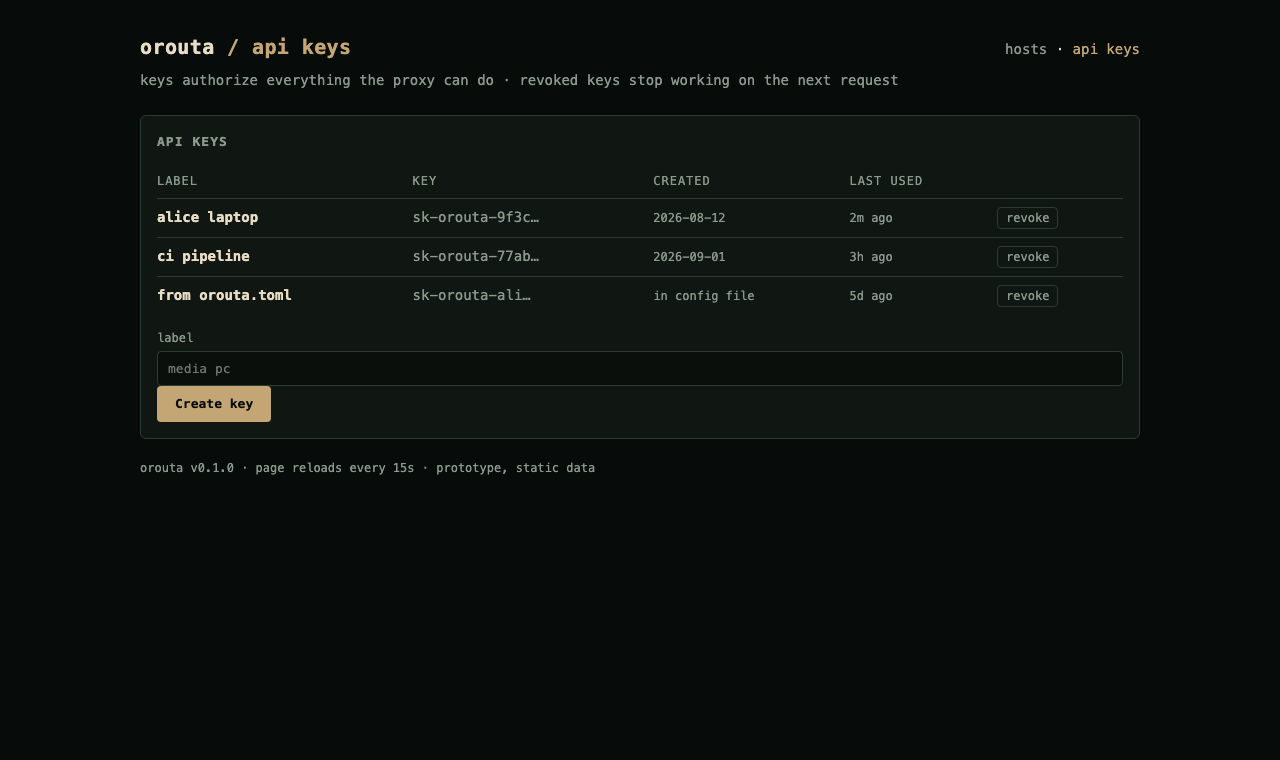
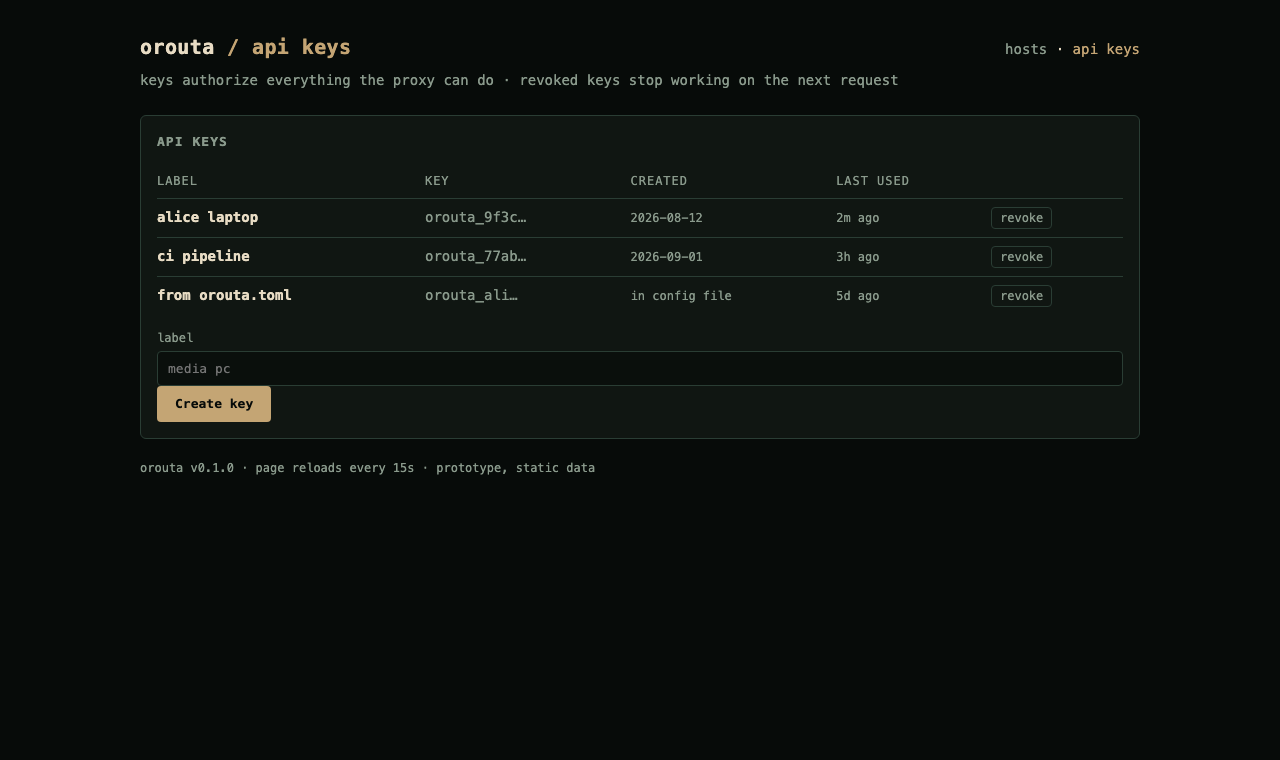
keys prefixed orouta_

diff --git a/prototypes/keys-reveal.html b/prototypes/keys-reveal.html
@@ -152,7 +152,7 @@
   <div class="reveal">
     <button class="btn">copy</button>
     <b>New key created &mdash; copy it now, it won't be shown again</b>
-    <code>sk-orouta-9f3ce1d24b7a8c05f6e39a1d0c2b48f7</code>
+    <code>orouta_9f3ce1d24b7a8c05f6e39a1d0c2b48f7</code>
   </div>
 
     <table>
@@ -160,21 +160,21 @@
       <tbody>
         <tr>
           <td><span class="klabel">alice laptop</span></td>
-          <td><span class="kprefix">sk-orouta-9f3c&hellip;</span></td>
+          <td><span class="kprefix">orouta_9f3c&hellip;</span></td>
           <td><span class="ktime">2026-08-12</span></td>
           <td><span class="ktime">2m ago</span></td>
           <td><button class="revoke">revoke</button></td>
         </tr>
         <tr>
           <td><span class="klabel">ci pipeline</span></td>
-          <td><span class="kprefix">sk-orouta-77ab&hellip;</span></td>
+          <td><span class="kprefix">orouta_77ab&hellip;</span></td>
           <td><span class="ktime">2026-09-01</span></td>
           <td><span class="ktime">3h ago</span></td>
           <td><button class="revoke">revoke</button></td>
         </tr>
         <tr>
           <td><span class="klabel">from orouta.toml</span></td>
-          <td><span class="kprefix">sk-orouta-ali&hellip;</span></td>
+          <td><span class="kprefix">orouta_ali&hellip;</span></td>
           <td><span class="ktime">in config file</span></td>
           <td><span class="ktime">5d ago</span></td>
           <td><button class="revoke">revoke</button></td>

diff --git a/prototypes/keys-light.html b/prototypes/keys-light.html
@@ -154,21 +154,21 @@
       <tbody>
         <tr>
           <td><span class="klabel">alice laptop</span></td>
-          <td><span class="kprefix">sk-orouta-9f3c&hellip;</span></td>
+          <td><span class="kprefix">orouta_9f3c&hellip;</span></td>
           <td><span class="ktime">2026-08-12</span></td>
           <td><span class="ktime">2m ago</span></td>
           <td><button class="revoke">revoke</button></td>
         </tr>
         <tr>
           <td><span class="klabel">ci pipeline</span></td>
-          <td><span class="kprefix">sk-orouta-77ab&hellip;</span></td>
+          <td><span class="kprefix">orouta_77ab&hellip;</span></td>
           <td><span class="ktime">2026-09-01</span></td>
           <td><span class="ktime">3h ago</span></td>
           <td><button class="revoke">revoke</button></td>
         </tr>
         <tr>
           <td><span class="klabel">from orouta.toml</span></td>
-          <td><span class="kprefix">sk-orouta-ali&hellip;</span></td>
+          <td><span class="kprefix">orouta_ali&hellip;</span></td>
           <td><span class="ktime">in config file</span></td>
           <td><span class="ktime">5d ago</span></td>
           <td><button class="revoke">revoke</button></td>

diff --git a/prototypes/keys.html b/prototypes/keys.html
@@ -154,21 +154,21 @@
       <tbody>
         <tr>
           <td><span class="klabel">alice laptop</span></td>
-          <td><span class="kprefix">sk-orouta-9f3c&hellip;</span></td>
+          <td><span class="kprefix">orouta_9f3c&hellip;</span></td>
           <td><span class="ktime">2026-08-12</span></td>
           <td><span class="ktime">2m ago</span></td>
           <td><button class="revoke">revoke</button></td>
         </tr>
         <tr>
           <td><span class="klabel">ci pipeline</span></td>
-          <td><span class="kprefix">sk-orouta-77ab&hellip;</span></td>
+          <td><span class="kprefix">orouta_77ab&hellip;</span></td>
           <td><span class="ktime">2026-09-01</span></td>
           <td><span class="ktime">3h ago</span></td>
           <td><button class="revoke">revoke</button></td>
         </tr>
         <tr>
           <td><span class="klabel">from orouta.toml</span></td>
-          <td><span class="kprefix">sk-orouta-ali&hellip;</span></td>
+          <td><span class="kprefix">orouta_ali&hellip;</span></td>
           <td><span class="ktime">in config file</span></td>
           <td><span class="ktime">5d ago</span></td>
           <td><button class="revoke">revoke</button></td>
